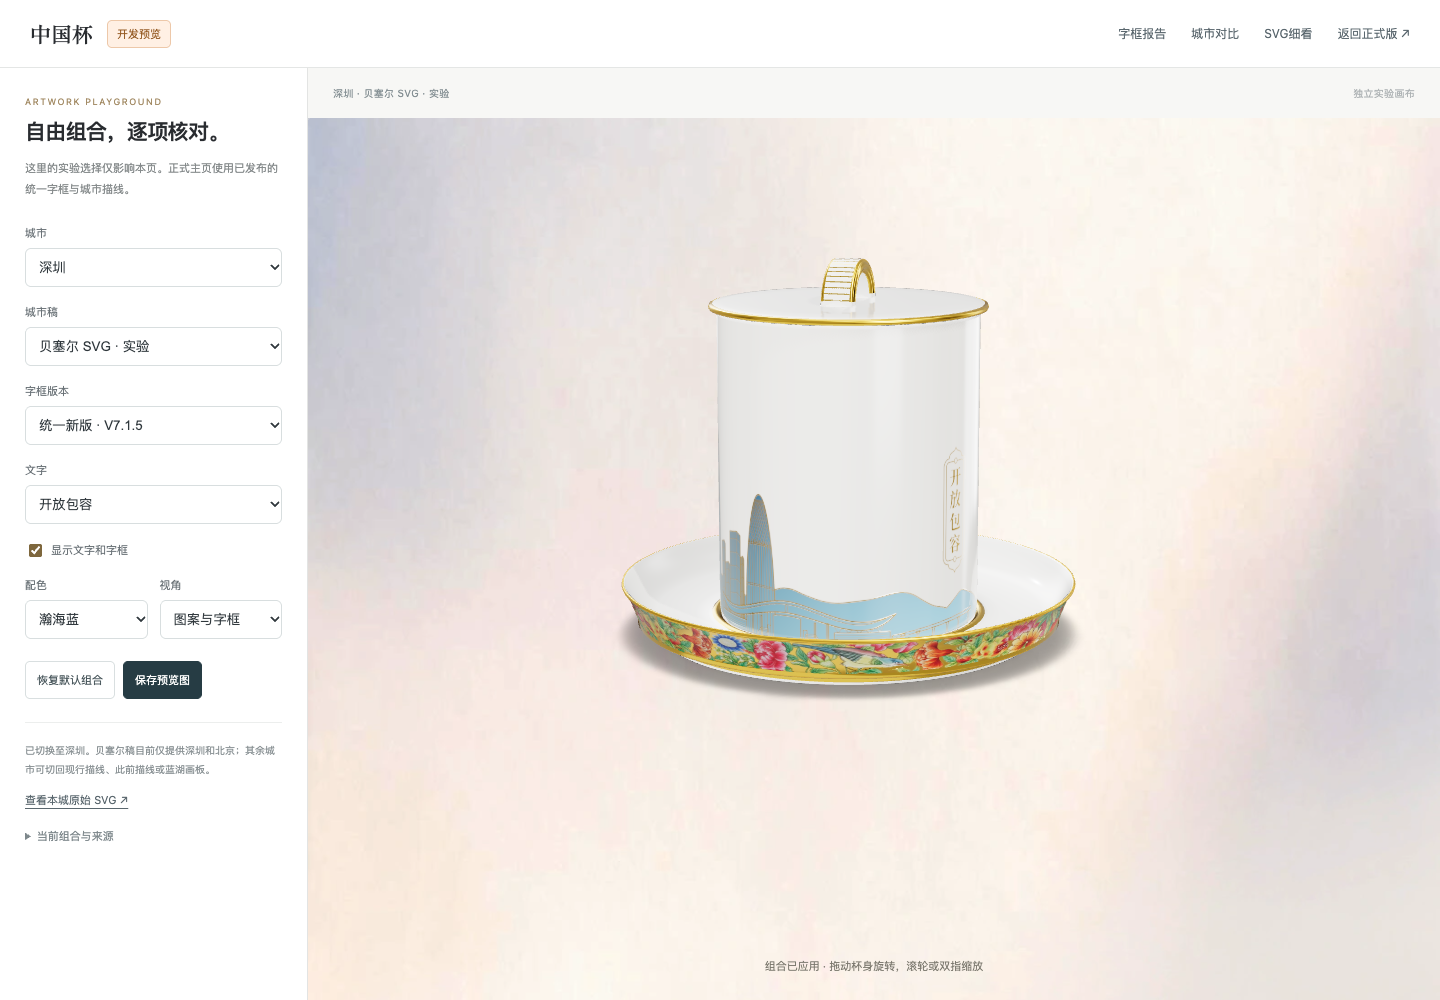
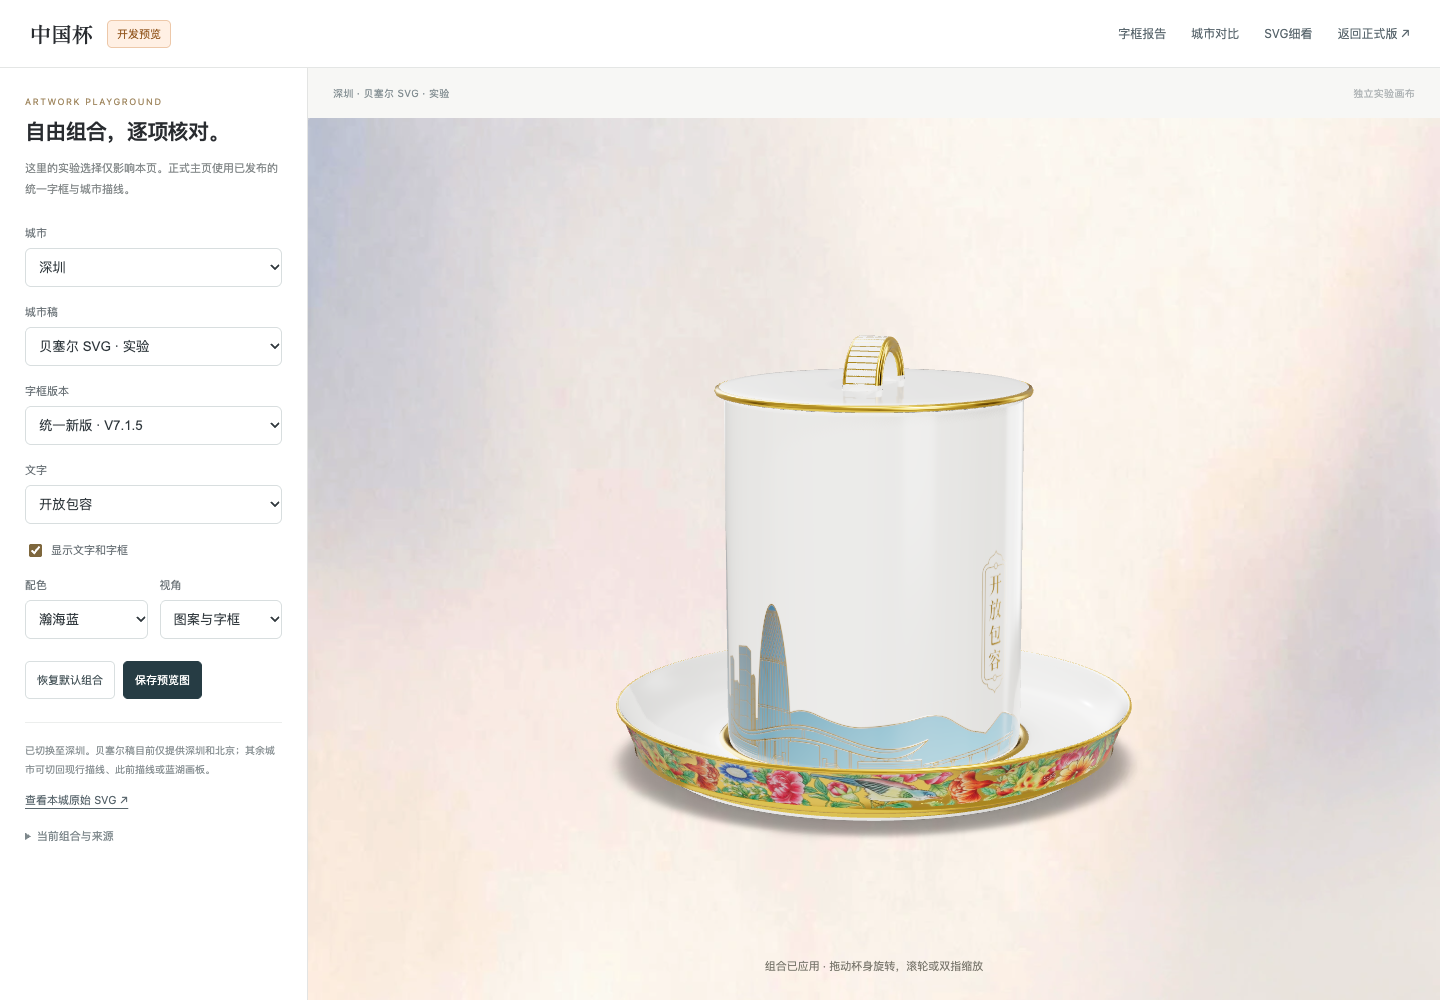
fix(china): center the independent experiment canvas on mobile

Changed region(s): [[0.4062, 0.248, 0.8125, 0.837], [0.5, 0.372, 0.5312, 0.403]]

diff --git a/guangcai-china-preview/src/main.ts b/guangcai-china-preview/src/main.ts
@@ -191,7 +191,7 @@ async function initialize(){
 function startupFailed(e:unknown){console.error('Startup failed',e);startupError='部分素材未能载入，请刷新重试。';syncLoadingStatus();if(profile!=='consumer')ui.error(String(e));}
 document.querySelector<HTMLAnchorElement>('.entry-reload')?.addEventListener('click',e=>{if(!startupError&&!selection.error)return;e.preventDefault();if(!resources)resourcesPromise=undefined;assetsReady=false;void initialize().catch(startupFailed);});
 void initialize().catch(startupFailed);
-const authoringFraming=createAuthoringFraming(studio.camera,ui.canvas,profile==='consumer');
+const authoringFraming=document.documentElement.dataset.labPreview==='true'?{apply(){},restore(){}}:createAuthoringFraming(studio.camera,ui.canvas,profile==='consumer');
 const updateClipping=createCameraClipping(studio.camera,product.root);
 const resolution=new AdaptiveResolution(studio.renderer.getPixelRatio(),Math.min(devicePixelRatio,2));
 function density(){return product.parameters.radius*2*ui.canvas.clientHeight*studio.renderer.getPixelRatio()/(2*studio.camera.position.distanceTo(view.controls.target)*Math.tan(studio.camera.fov*Math.PI/360));}

diff --git a/docs/changes/20261020-v7.1.5-label-layout-lab/completion.md b/docs/changes/20261020-v7.1.5-label-layout-lab/completion.md
@@ -14,7 +14,7 @@
 - `npm test`：45/45；`npm run test:v7`：37/37，含2个新增资源/来源保真测试。
 - TypeScript、消费者构建、integration构建通过。195项运行资源长度/摘要/解码通过；6组文字逐像素对应本轮SVG母版。预加载11,595,259 bytes，原5MiB/6秒目标未通过。
 - 主页面Chrome桌面1200×1000和移动390×844：41项通过，含23城、4城蓝色、v7-1～v7-6还原、实际城市卡片及正式/实验隔离。
-- 报告/开发页Chrome1440×1000与390×844：83项通过，含全部25个新实验稿的真实杯身切换、旧新字框、成都原位、字框隐藏、配色、视角后保持实验稿、PNG导出与复位；无相关console/runtime error。
+- 报告/开发页Chrome1440×1000与390×844：85项通过，含全部25个新实验稿的真实杯身切换、旧新字框、成都原位、字框隐藏、配色、视角后保持实验稿、PNG导出与复位；无相关console/runtime error。
 - 12张杯身对比在同相机、同材质、同分辨率下生成，6组文字均有旧/新对照。
 
 ## 诊断和限制
@@ -25,6 +25,8 @@
 - 初次上海快照的字框位图与其他城市不同，已通过正常界面重新导出，最终23城帧图编码摘要完全相同；成都重新导出仍有6px偏差，已校验每个轮廓坐标恰为同组平移6px。
 - 真机iPhone/Safari、实体陶瓷、长时GPU/触感、正式COS/身份联调仍待验收。新实验城市稿含通用自动填面，仅用于开发预览；正式城市稿保留既有人工审核填面。
 
+- 最后截图复核发现移动实验iframe高度小于520px，误用正式页横屏控制面板的留白取景，杯身偏左。已仅在实验iframe禁用该取景变换，加入桌面/移动PNG有效像素边界检查，85项重新通过；正式主页逻辑保持原样。
+
 ## 提交与上线
 
-首个代码checkpoint：`fdf25c5`。首次git add受既有cone sparse checkout限制，新素材与页面未进入首个提交；尚未推送，已补齐本任务7个精确目录，再提交完整来源与验证。PR、合并源码和生产部署在验证后补齐；未用本地构建替代上线证据。
+首个代码checkpoint：`fdf25c5`。完整素材与报告checkpoint：`b911880`。首次git add受既有cone sparse checkout限制，新素材与页面未进入首个提交；尚未推送，已补齐本任务7个精确目录，再提交完整来源与验证。PR、合并源码和生产部署在验证后补齐；未用本地构建替代上线证据。
